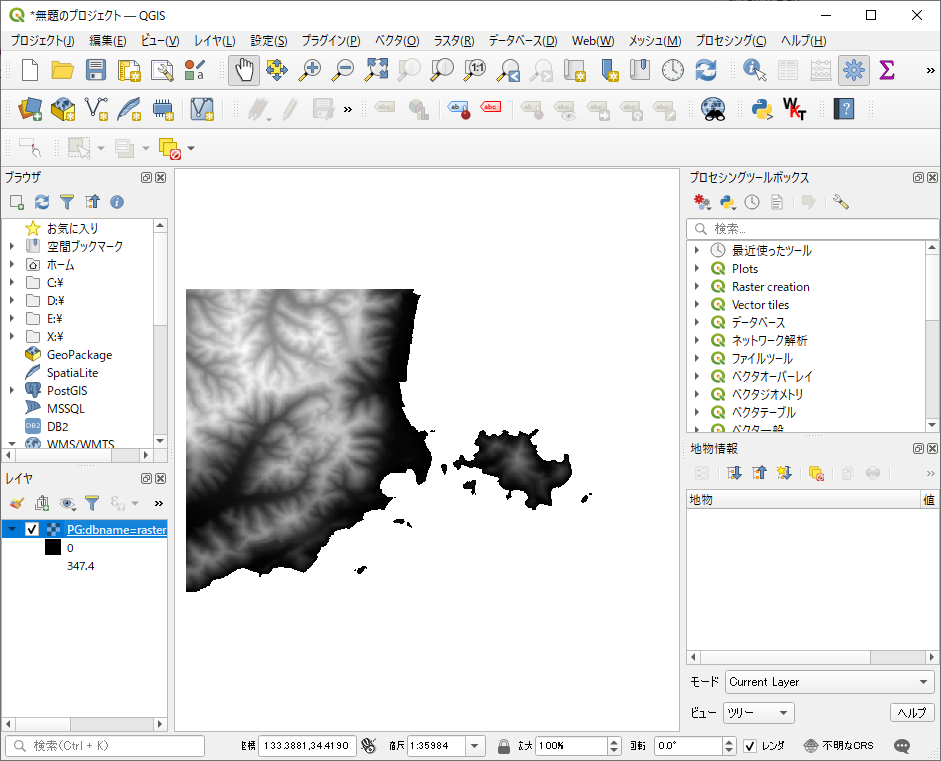
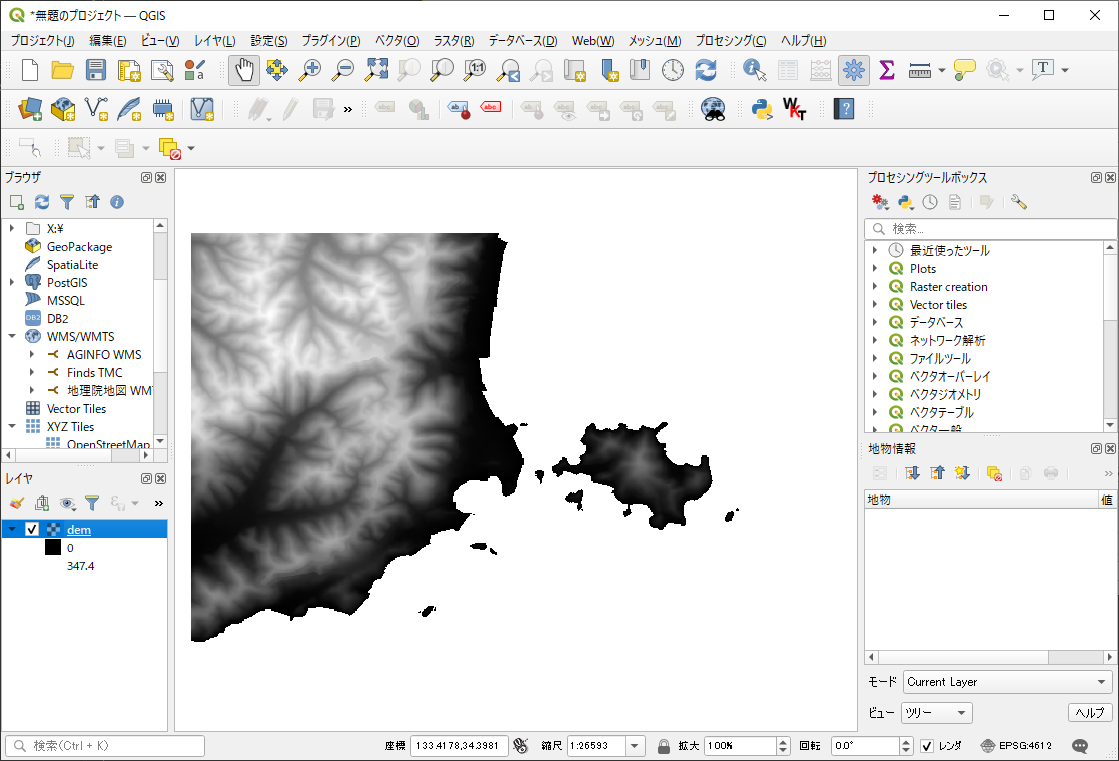
raster2pgsql update

diff --git a/books/pgis-raster-beginner/raster2pgsql.md b/books/pgis-raster-beginner/raster2pgsql.md
@@ -214,43 +214,29 @@ Band 1 Block=600x400 Type=Float32, ColorInterp=Gray
 
 # QGISで見てみよう
 
-QGISのメニューから「レイヤ」→「レイヤを追加」→「ラスタレイヤを追加」と選択すると、追加したいラスタファイル名を求めるダイアログが現れます。
+「PostGISレイヤの追加」からPostGISラスタも追加することができます。追加方法は[QGISでPostGISのデータを見てみよう](https://zenn.dev/boiledorange73/books/b1de0a18073af70946e0/viewer/qgis)と同じですので、そちらをご覧下さい。
 
-ただ、ファイル名が求められているようです。
+rasterデータベースに接続したら、次のようになりました。
 
-これだと、できないかも知れませんね。PostGISはファイルではないですから。
+![データソースマネージャダイアログ](https://raw.githubusercontent.com/boiledorange73/zenn-content/main/books-images/pgis-raster-beginner/raster2pgsql/1.png)
 
-いや、できるかも知れません。
-
-## QGISのデータソースもファイル以外に対応
-
-というのも、QGISもgdalを持っています。ということは、ファイル名を指定するべきところで``PG:``で始まる接続文字列を入れると動くのではないか、と考えられないでしょうか？
-
-ためしにリモートで接続してみました。この際にputtyでフォワーディングさせていたためポート番号は5432ではないし、ユーザ名もパスワードも必要となりました。
-
-それでも無理ではありませんでした。次のように、ポート番号やユーザ認証情報もサポートされています。
-
-```
-PG:dbname=(データベース名) table=(テーブル名) port=(ポート番号) user=(ユーザ名) password=(パスワード)
-```
-
-ダイアログは次のようになります。
-
-![PostGISラスタをデータソースに指定しているところ](https://raw.githubusercontent.com/boiledorange73/zenn-content/main/books-images/pgis-raster-beginner/raster2pgsql/1.png)
-
-なんか違和感を感じます。
-
-## 表示できた
-
-せっかくなのでPostGISラスタをデータソースとして指定してQGISで表示させた結果を示します。
+``dem``というラスタカラムが追加対象選択肢として上がっているのが見えると思います。そのまま追加して下さい。
 
 ![PostGISラスタをQGISで表示しているところ](https://raw.githubusercontent.com/boiledorange73/zenn-content/main/books-images/pgis-raster-beginner/raster2pgsql/2.png)
 
+# QGISのデータソースもファイル以外に対応
+
+QGISもgdalを持っています。ということは、ファイル名を指定するべきところで``PG:``で始まる接続文字列を入れると動くのではないか、と考えられないでしょうか？
+
+QGISのメニューから「レイヤ」→「レイヤを追加」→「ラスタレイヤを追加」と選択すると、追加したいラスタのデータソースを求めるダイアログが現れます。
+
+![PostGISラスタをデータソースに指定しているところ](https://raw.githubusercontent.com/boiledorange73/zenn-content/main/books-images/pgis-raster-beginner/raster2pgsql/3.png)
+
+なんか違和感を感じます。でも表示できます。
 
 # おわりに
 
 本章では、GeoTIFFデータからSQLを生成してPostGISラスタに保存し、gdalinfoで確認し、QGISで表示する手順を紹介しました。
-
-また、PostGISデータをgdalで使用する場合の接続文字列の概要と、gdalだけでなくQGISも接続文字列に対応していることを紹介しました。
+その際に、PostGISラスタをgdalで使用する場合の接続文字列の概要と、QGISでも対応していることも紹介しました。
 
 これで、PostGISラスタについて、格納、表示という、基礎的なことができることが確認できました。
